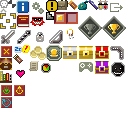
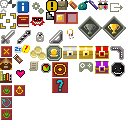
Sorting out spell menu

Changed region(s): [[0.4062, 0.4688, 0.5312, 0.75], [0.0, 0.8438, 0.0938, 0.9375]]

diff --git a/PixelDungeon/src/main/java/com/nyrds/pixeldungeon/windows/WndHeroSpells.java b/PixelDungeon/src/main/java/com/nyrds/pixeldungeon/windows/WndHeroSpells.java
@@ -1,20 +1,3 @@
-/*
- * Pixel Dungeon
- * Copyright (C) 2012-2015 Oleg Dolya
- *
- * This program is free software: you can redistribute it and/or modify
- * it under the terms of the GNU General Public License as published by
- * the Free Software Foundation, either version 3 of the License, or
- * (at your option) any later version.
- *
- * This program is distributed in the hope that it will be useful,
- * but WITHOUT ANY WARRANTY; without even the implied warranty of
- * MERCHANTABILITY or FITNESS FOR A PARTICULAR PURPOSE.  See the
- * GNU General Public License for more details.
- *
- * You should have received a copy of the GNU General Public License
- * along with this program.  If not, see <http://www.gnu.org/licenses/>
- */
 package com.nyrds.pixeldungeon.windows;
 
 import com.nyrds.android.util.GuiProperties;
@@ -29,8 +12,9 @@ import com.watabou.pixeldungeon.Dungeon;
 import com.watabou.pixeldungeon.actors.hero.Hero;
 import com.watabou.pixeldungeon.scenes.GameScene;
 import com.watabou.pixeldungeon.scenes.PixelScene;
-import com.watabou.pixeldungeon.ui.RedButton;
+import com.watabou.pixeldungeon.ui.Icons;
 import com.watabou.pixeldungeon.ui.ScrollPane;
+import com.watabou.pixeldungeon.ui.SimpleButton;
 import com.watabou.pixeldungeon.ui.Window;
 
 import java.util.ArrayList;
@@ -38,8 +22,7 @@ import java.util.ArrayList;
 public class WndHeroSpells extends Window {
 
 	private static final String TXT_TITLE   = Game.getVar(R.string.WndSpells_Title);
-	private static final String TXT_INFO   = Game.getVar(R.string.WndSpells_Info);
-	private static final String TXT_USE   = Game.getVar(R.string.WndSpells_Use);
+	private static final String TXT_LVL   = Game.getVar(R.string.WndSpells_Level);
 
 	private static final int MARGIN = 2;
 	private static final int WINDOW_MARGIN = 10;
@@ -55,6 +38,12 @@ public class WndHeroSpells extends Window {
 		txtTitle.measure();
 		add(txtTitle);
 
+		Text txtLvl = PixelScene.createText(TXT_LVL + hero.magicLvl(), GuiProperties.titleFontSize());
+		txtLvl.hardlight(Window.TITLE_COLOR);
+		txtLvl.measure();
+		txtLvl.x = width - txtLvl.width();
+		add(txtLvl);
+
 		ScrollPane list = new ScrollableList(new Component());
 
 		add(list);
@@ -67,63 +56,75 @@ public class WndHeroSpells extends Window {
 
 		ArrayList<String> spells = SpellFactory.getSpellsByAffinity(affinity);
 		if(spells != null) {
+			int i = 1;
 			for (String spell : spells) {
-
-				yPos = addSpell(spell, hero, yPos);
+				yPos = addSpell(spell, hero, yPos, i);
+				i++;
 			}
 		}
 	}
 
-	private float addSpell(String spellName ,final Hero hero,  float yPos) {
+	private float addSpell(String spellName ,final Hero hero,  float yPos, int i) {
 
 		final Spell spell = SpellFactory.getSpellByName(spellName);
 		if(spell == null || spell.level() > hero.magicLvl()) {
 			return yPos;
 		}
+		int xPos = 0;
+		if ( i % 2 == 0 ) {
+			xPos = width - 48 - MARGIN * 2;
+		}
+
+		float yPosTemp = yPos;
 
 		Text txtName;
 
 		txtName = PixelScene.createText(spell.name(), GuiProperties.titleFontSize());
 		txtName.measure();
+		txtName.x = xPos;
 		txtName.y = yPos;
 		add(txtName);
 
 		Image icon = spell.image();
 
 		icon.frame( spell.film.get( spell.imageIndex ) );
-		icon.y = txtName.bottom() + MARGIN;
+		icon.y = txtName.bottom();
+		icon.x = xPos;
 		add( icon );
 
-		RedButton btnCast = new RedButton( TXT_USE ) {
-			@Override
+		SimpleButton btnCast = new SimpleButton(Icons.get(Icons.BTN_TARGET)) {
 			protected void onClick() {
 				hide();
 				spell.cast(hero);
 			}
 		};
 		btnCast.setRect(
-				icon.width() + MARGIN, icon.y,
-				btnCast.reqWidth() + 2, btnCast.reqHeight() + 2 );
+				icon.x + icon.width() + MARGIN, icon.y,
+				16, 15 );
 		add( btnCast );
 
-		RedButton btnInfo = new RedButton( TXT_INFO ) {
-			@Override
+		SimpleButton btnInfo = new SimpleButton(Icons.get(Icons.BTN_QUESTION)) {
 			protected void onClick() {
 				hide();
 				GameScene.show( new WndSpellInfo(hero, spell) );
 			}
 		};
 		btnInfo.setRect(
-				btnCast.right() + MARGIN, icon.y,
-				btnInfo.reqWidth() + 2, btnInfo.reqHeight() + 2 );
+				icon.x + icon.width() + MARGIN, btnCast.bottom() + MARGIN,
+				16, 15 );
 		add( btnInfo );
 
 		Text txtCost;
 
-		txtCost = PixelScene.createText( Game.getVar(R.string.Mana_Title) + ": " + spell.spellCost(), GuiProperties.titleFontSize());
+		txtCost = PixelScene.createText( Game.getVar(R.string.Mana_Cost) + spell.spellCost(), GuiProperties.titleFontSize());
 		txtCost.measure();
-		txtCost.y = icon.bottom() + MARGIN;
+		txtCost.x = xPos;
+		txtCost.y = icon.bottom();
 		add(txtCost);
+
+		if ( xPos == 0 ){
+			return yPosTemp;
+		}
 
 		return txtCost.bottom() + MARGIN;
 	}

diff --git a/PixelDungeon/src/main/java/com/watabou/pixeldungeon/ui/Icons.java b/PixelDungeon/src/main/java/com/watabou/pixeldungeon/ui/Icons.java
@@ -65,7 +65,9 @@ public enum Icons {
 	PLAY_GAMES,
 	BTN_SYNC_IN,
 	BTN_SYNC_OUT,
-	BTN_SYNC_REFRESH;
+	BTN_SYNC_REFRESH,
+	BTN_TARGET,
+	BTN_QUESTION;
 
 	
 	public Image get() {
@@ -203,6 +205,12 @@ public enum Icons {
 			break;
 		case BTN_SYNC_REFRESH:
 			icon.frame( icon.texture.uvRect( 1, 97, 12, 108 ) );
+			break;
+		case BTN_TARGET:
+			icon.frame( icon.texture.uvRect( 52, 62, 68, 77 ) );
+			break;
+		case BTN_QUESTION:
+			icon.frame( icon.texture.uvRect( 52, 78, 68, 93 ) );
 			break;
 		}
 		return icon;
